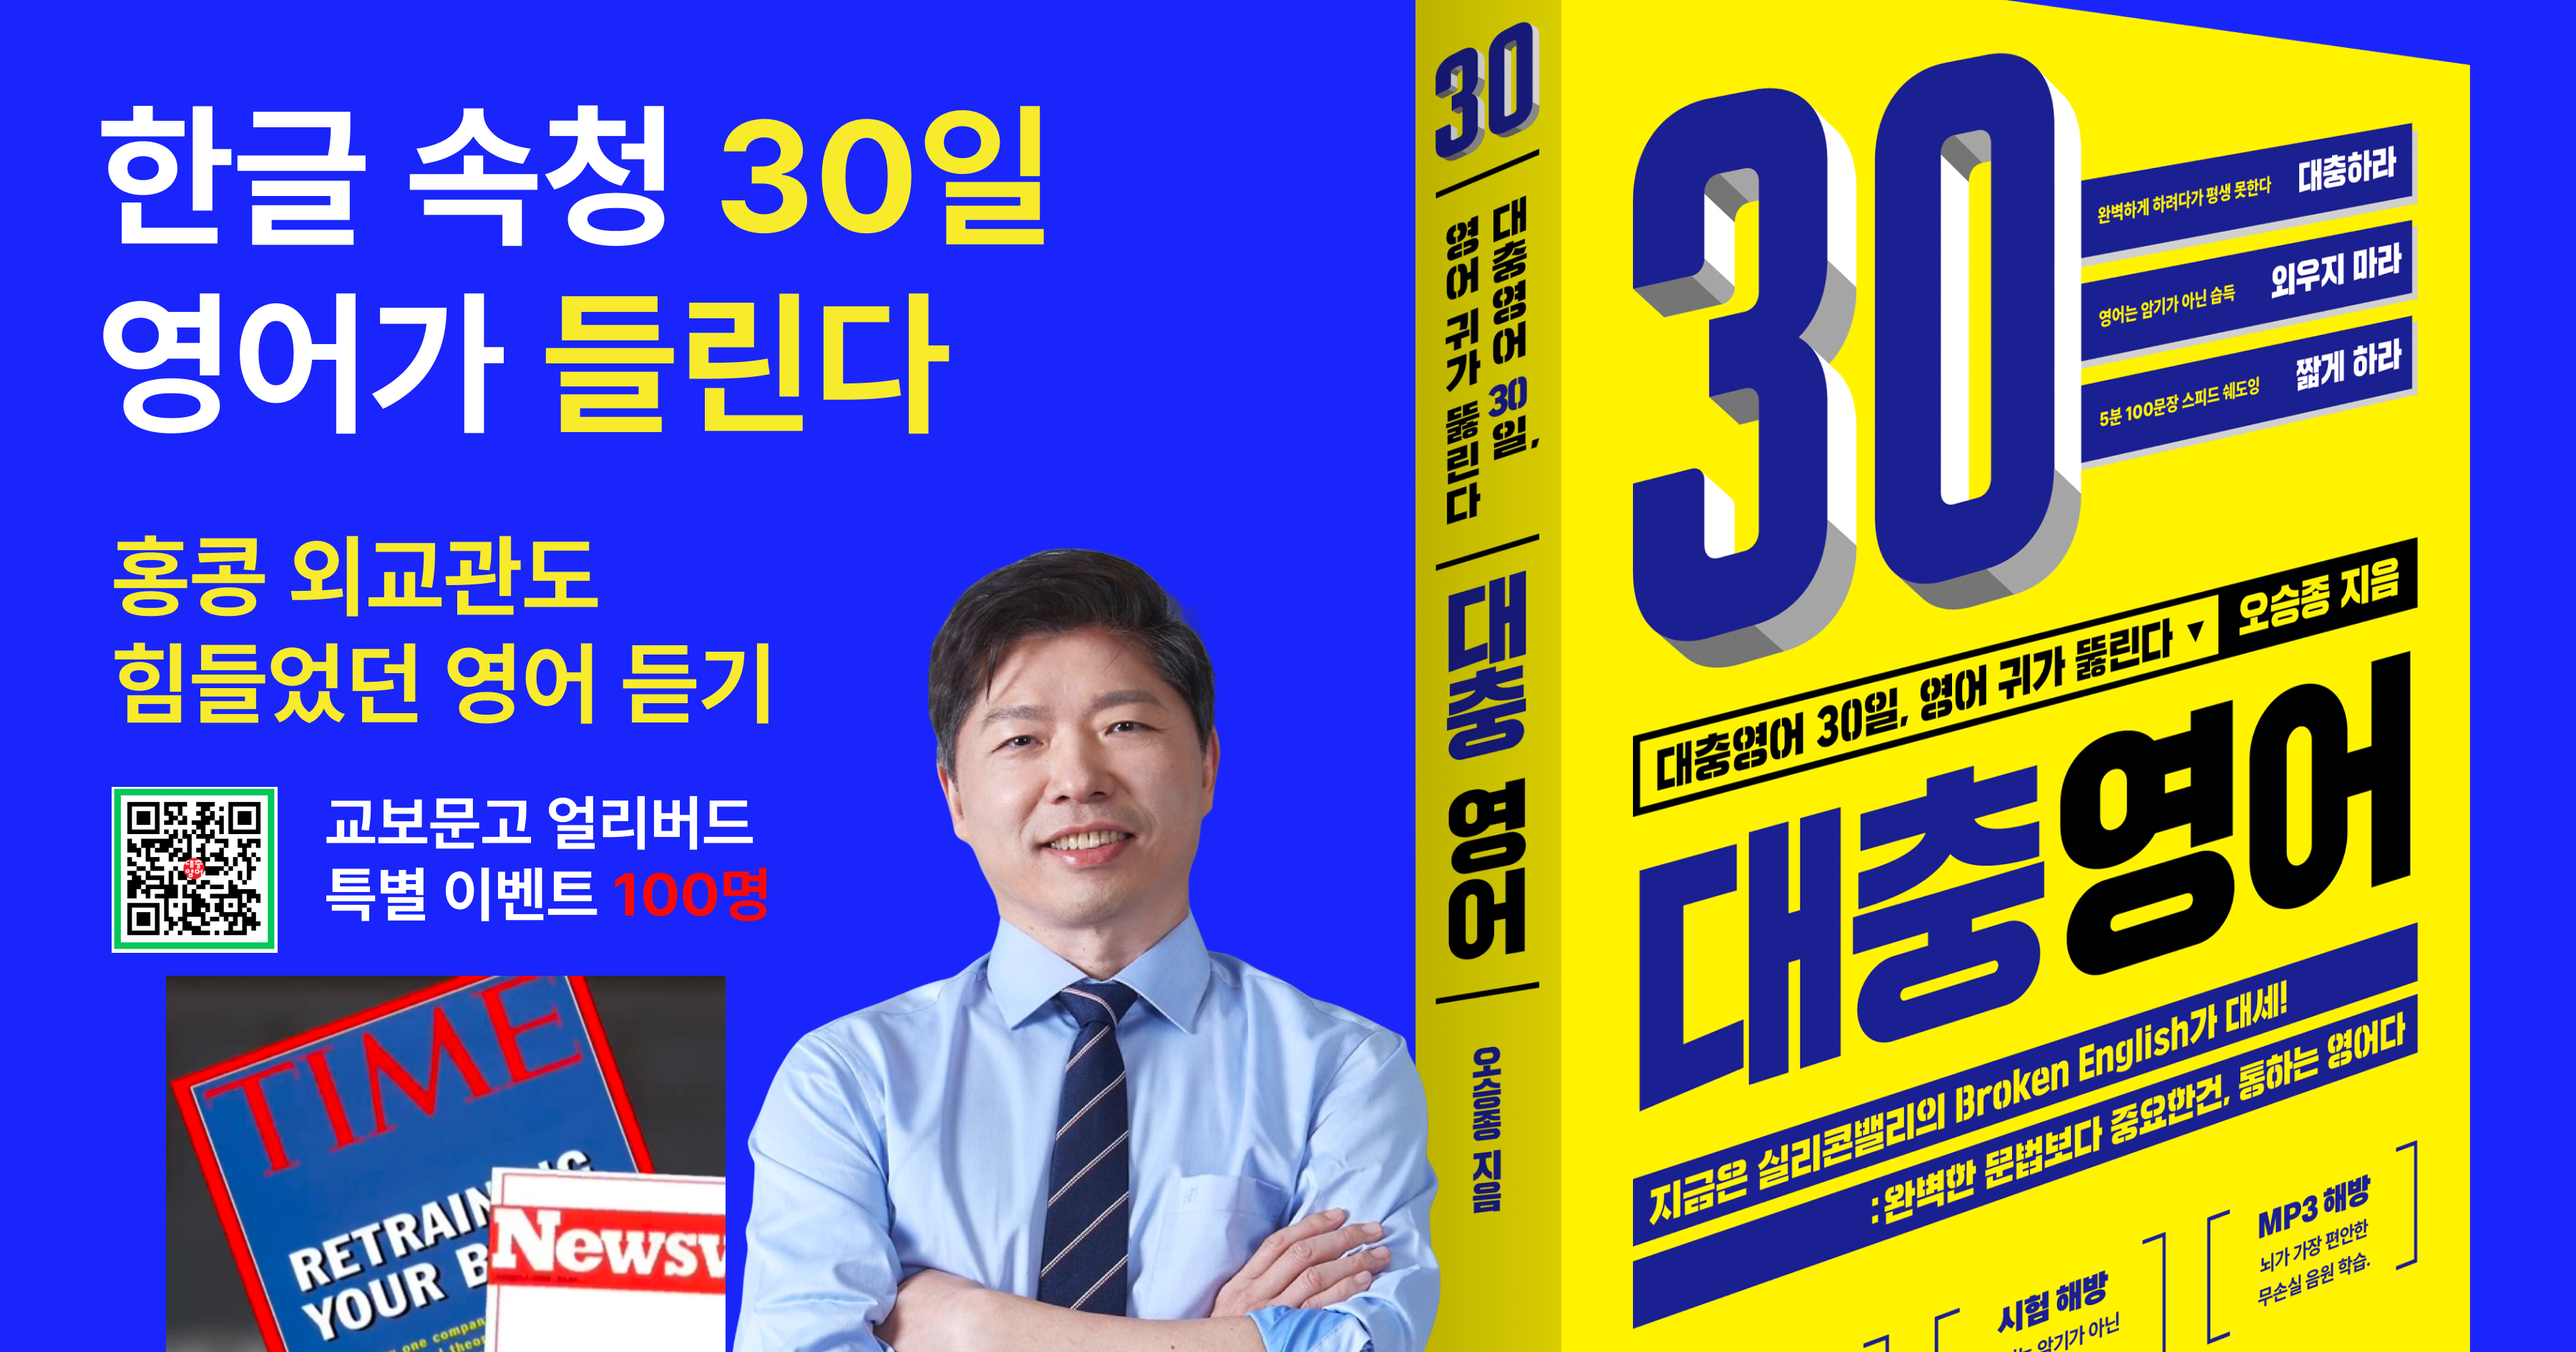
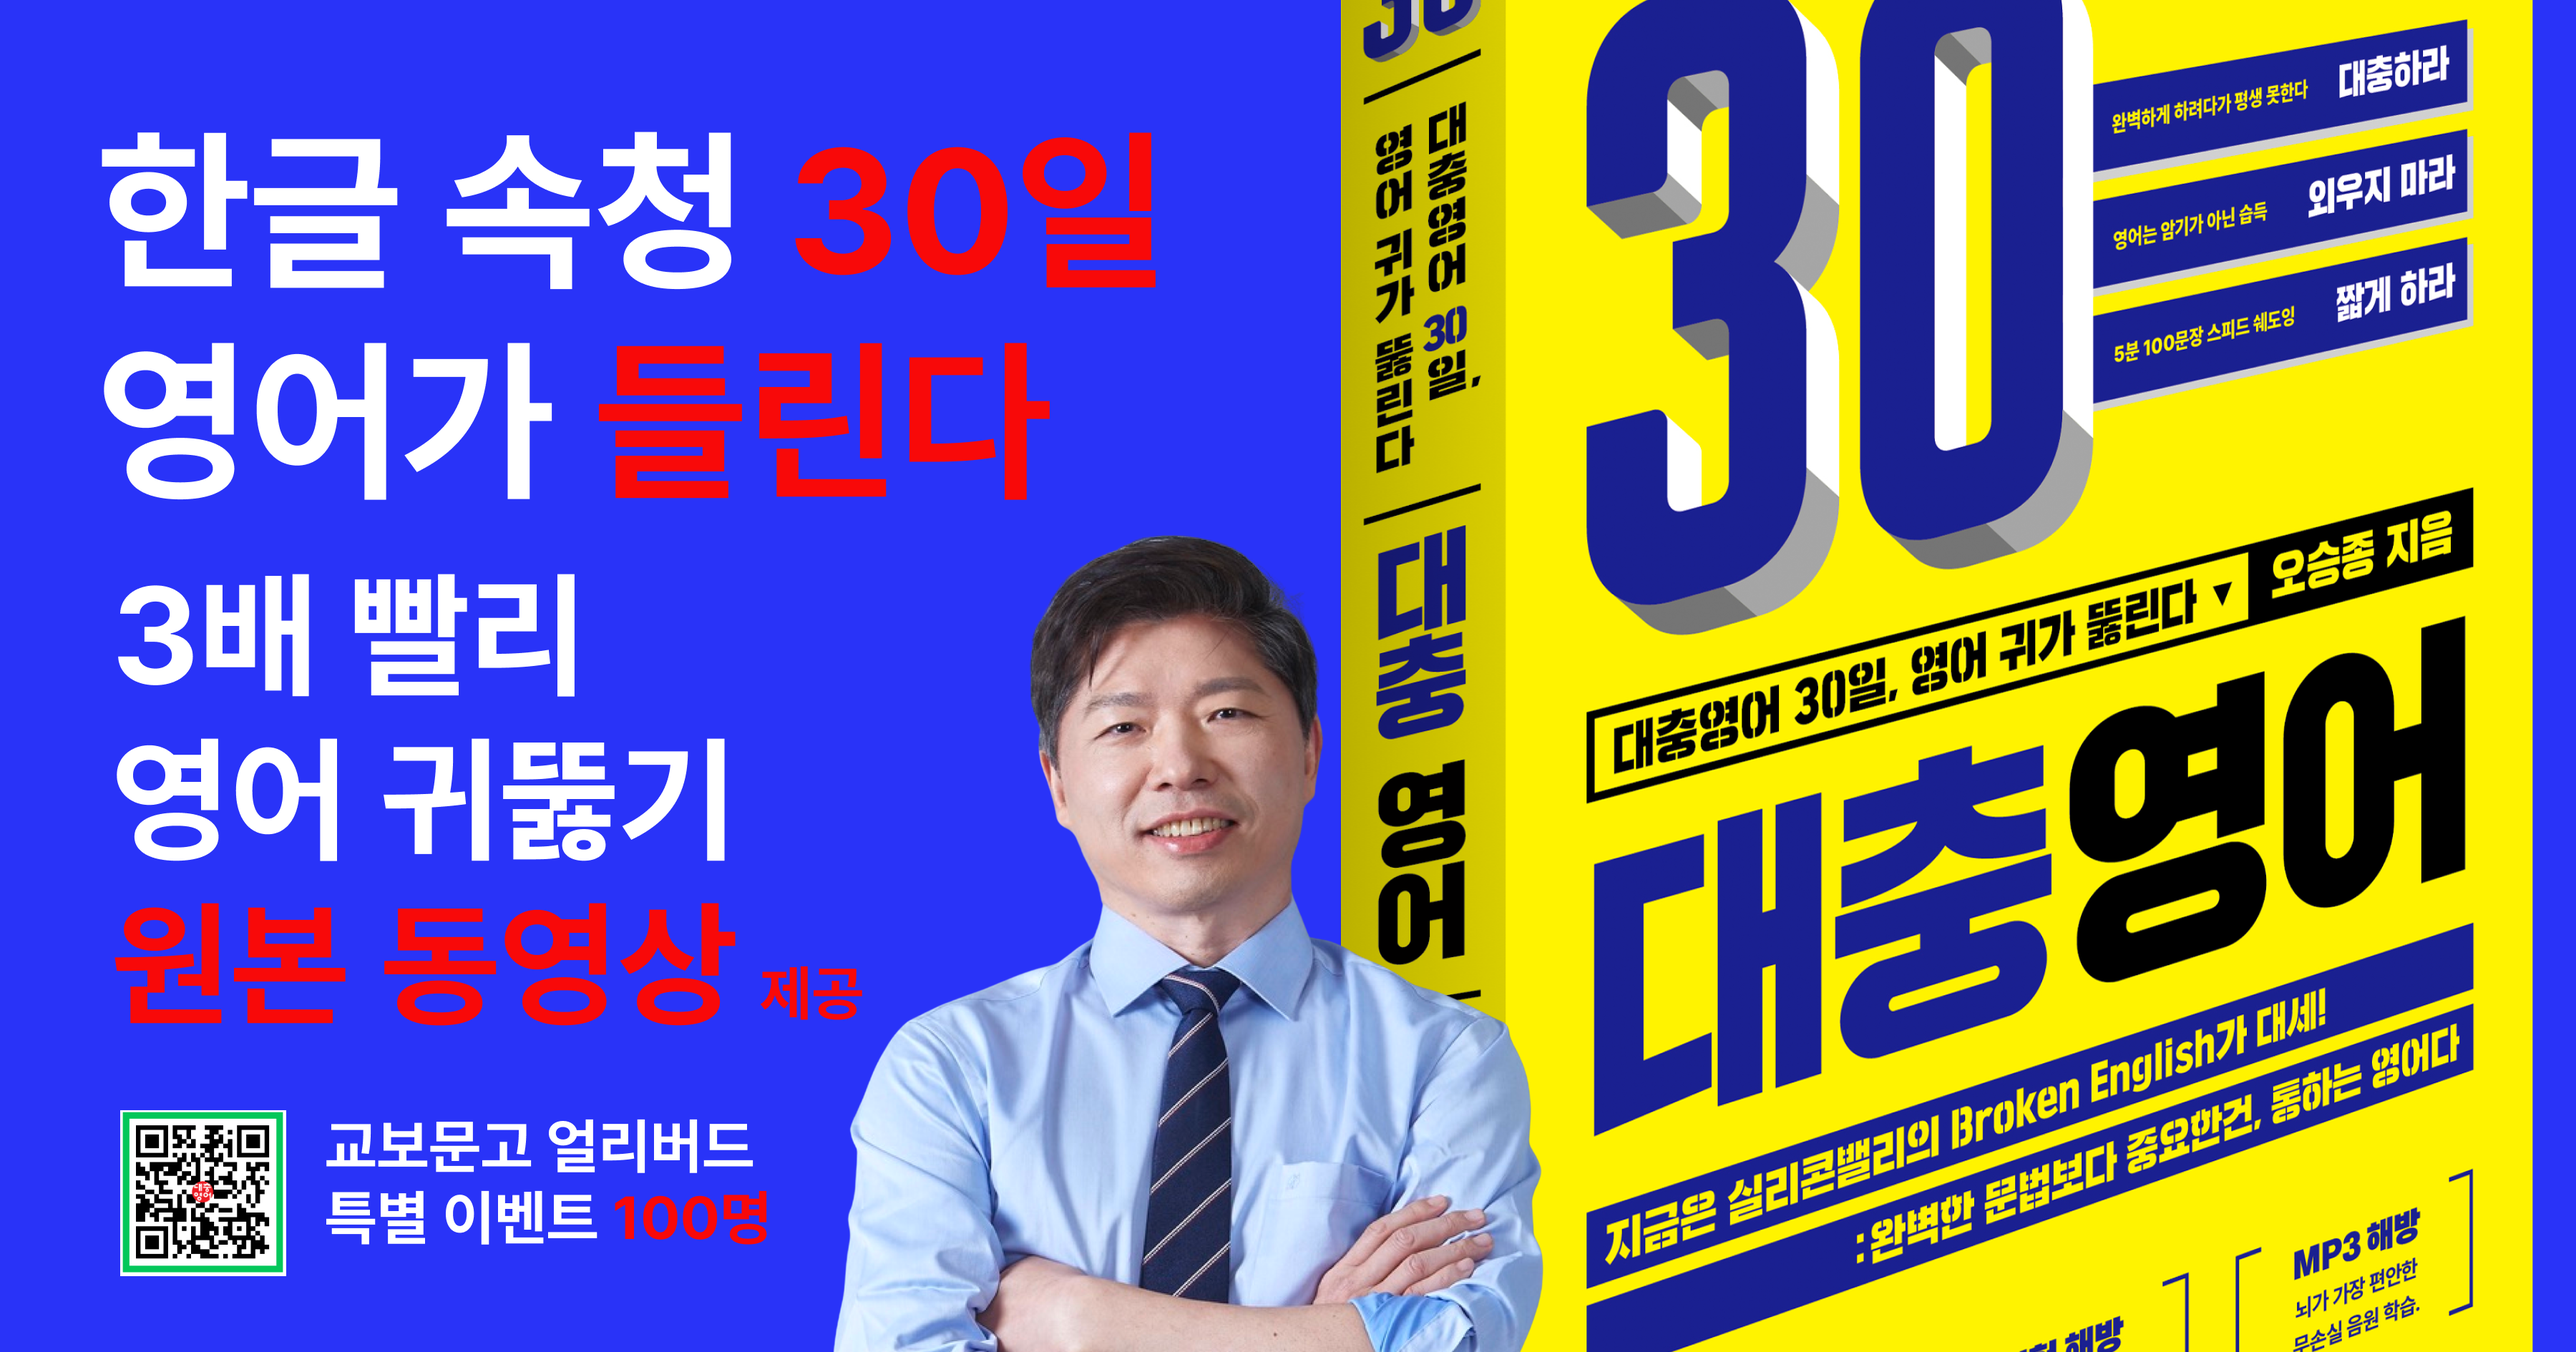
Update: 메타 이미지 변경 및 캐시 버전 v3 적용
- 새로운 메타 이미지 업로드
- ?v=3으로 캐시 우회
- 3600x1890 (1.91:1 비율 유지)

🤖 Generated with [Claude Code](https://claude.com/claude-code)

diff --git a/index.html b/index.html
@@ -11,7 +11,7 @@
     <meta property="og:url" content="https://mp3-free.vercel.app/">
     <meta property="og:title" content="교보문고 구매자 선착순 100명 3배 빨리 영어 귀 만들기 원본 영상 제공">
     <meta property="og:description" content="교보문고에서 '대충영어 속청 30일' 구매 시 선착순 100명에게 영어 귀를 3배 빨리 뚫는 WAV 원본 영상 무료 제공">
-    <meta property="og:image" content="https://mp3-free.vercel.app/asset/meta-image-store.png?v=2">
+    <meta property="og:image" content="https://mp3-free.vercel.app/asset/meta-image-store.png?v=3">
     <meta property="og:image:width" content="1200">
     <meta property="og:image:height" content="630">
 
@@ -20,7 +20,7 @@
     <meta property="twitter:url" content="https://mp3-free.app/">
     <meta property="twitter:title" content="교보문고 구매자 선착순 100명 3배 빨리 영어 귀 만들기 원본 영상 제공">
     <meta property="twitter:description" content="교보문고에서 '대충영어 속청 30일' 구매 시 선착순 100명에게 영어 귀를 3배 빨리 뚫는 WAV 원본 영상 무료 제공">
-    <meta property="twitter:image" content="https://mp3-free.vercel.app/asset/meta-image-store.png?v=2">
+    <meta property="twitter:image" content="https://mp3-free.vercel.app/asset/meta-image-store.png?v=3">
 
     <!-- Google tag (gtag.js) -->
     <script async src="https://www.googletagmanager.com/gtag/js?id=G-MFNKDVP6VE"></script>
